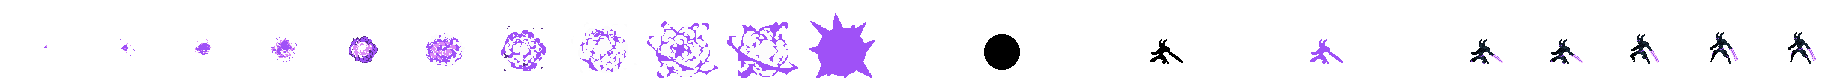
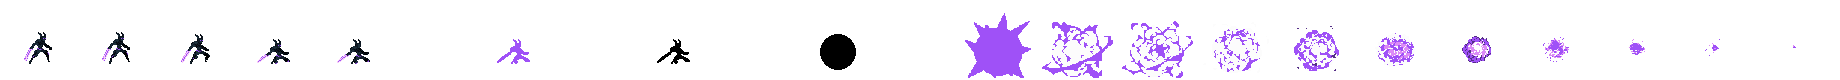
death animation and text files

Changed region(s): [[0.0, 0.25, 0.4957, 0.975], [0.5266, 0.25, 0.8984, 0.975], [0.9293, 0.45, 0.9913, 0.75]]

diff --git a/Fighting-Game/script.js b/Fighting-Game/script.js
@@ -81,6 +81,11 @@ const player = new Fighter({
             framesMax: 6,
             image: new Image()
         },
+        death: {
+            imageSrc: './Graphic/character/Assassin/Death.png',
+            framesMax: 9,
+            image: new Image()
+        }
     },
     attackBox: {
         offset: {
@@ -142,6 +147,11 @@ const enemy = new Fighter({
             framesMax: 5,
             image: new Image()
         },
+        death: {
+            imageSrc: './Graphic/character/NightBorne/Death.png',
+            framesMax: 23,
+            image: new Image()
+        }
     },
     attackBox: {
         offset: {
@@ -178,6 +188,9 @@ decreaseTimer()
 
 
 window.addEventListener('keydown', (event) => {
+    if(!player.dead) {
+
+    
     switch (event.key) {
 //player
         case 'd':
@@ -196,23 +209,28 @@ window.addEventListener('keydown', (event) => {
         case ' ':
             player.attack()
             break
-//enemy
-        case 'ArrowRight':
-            keys.ArrowRight.pressed = true 
-            enemy.lastKey = 'ArrowRight'
-            break
-        case 'ArrowLeft':
-            keys.ArrowLeft.pressed = true 
-            enemy.lastKey = 'ArrowLeft'
-            break
-        case 'ArrowUp':
-            if((enemy.position.y + enemy.height) >= canvas.height) {
-                enemy.velocity.y = -13
-            }
-            break
-        case 'ArrowDown':
-            enemy.attack()
-            break
+        }
+    }
+    if(!enemy.dead) {
+        switch(event.key){
+        //enemy
+            case 'ArrowRight':
+                keys.ArrowRight.pressed = true 
+                enemy.lastKey = 'ArrowRight'
+                break
+            case 'ArrowLeft':
+                keys.ArrowLeft.pressed = true 
+                enemy.lastKey = 'ArrowLeft'
+                break
+            case 'ArrowUp':
+                if((enemy.position.y + enemy.height) >= canvas.height) {
+                    enemy.velocity.y = -13
+                }
+                break
+            case 'ArrowDown':
+                enemy.attack()
+                break
+        }
     }
 
 })

diff --git a/Fighting-Game/classi.js b/Fighting-Game/classi.js
@@ -83,6 +83,8 @@ class Fighter extends Sprite {
         this.framesElapsed = 0
         this.framesHold = 20
         this.sprites = sprites
+        this.dead = false
+
         for( const sprite in this.sprites){
             sprites [sprite].image = new Image()
             sprites [sprite].image.src = sprites [sprite].imageSrc
@@ -91,8 +93,9 @@ class Fighter extends Sprite {
 
     update () {
         this.draw()
-        this.animateFrames()
-        console.log(player.position.x, player.position.y, enemy.attackBox.position.x,enemy.attackBox.position.y)
+        if(!this.dead) this.animateFrames()
+        
+
 
 
         //attackbox
@@ -115,11 +118,22 @@ class Fighter extends Sprite {
     }
 
     hit() {
-        this.switchSprite('hit')
         this.health -= 20
+
+        if (this.health <= 0) {
+            this.switchSprite('death')
+        } else this.switchSprite('hit')
     }
     
     switchSprite(sprite) {
+
+        if (this.image === this.sprites.death.image) {
+            if(this.framesCurrent === this.sprites.death.framesMax -1 )
+            this.dead = true
+            return
+        }
+               
+
         if (
             this.image === this.sprites.attack1.image && 
             this.framesCurrent < this.sprites.attack1.framesMax -1) 
@@ -171,6 +185,13 @@ class Fighter extends Sprite {
                 if(this.image !== this.sprites.hit.image) {
                     this.image = this.sprites.hit.image
                     this.framesMax = this.sprites.hit.framesMax
+                    this.framesCurrent = 0
+                }
+                break
+            case 'death':
+                if(this.image !== this.sprites.death.image) {
+                    this.image = this.sprites.death.image
+                    this.framesMax = this.sprites.death.framesMax
                     this.framesCurrent = 0
                 }
                 break

diff --git a/Fighting-Game/index.html b/Fighting-Game/index.html
@@ -1,9 +1,13 @@
 <html>
 <head>
+    <link rel="preconnect" href="https://fonts.googleapis.com"> 
+    <link rel="preconnect" href="https://fonts.gstatic.com" crossorigin> 
+    <link href="https://fonts.googleapis.com/css2?family=Press+Start+2P&display=swap" rel="stylesheet">
     <link rel="stylesheet" href="style.css" type="text/css">
     <style>
         *{
            box-sizing: border-box;
+            font-family: 'Press Start 2P', cursive;
         }
     </style>
 </head>
@@ -11,7 +15,14 @@
     <div id="overlay">
         <div id="health_and_timer">
             <!-- player health-->
-            <div style="position: relative; height: 30px; width: 100%; display: flex; justify-content: flex-end">
+            <div style="position: relative; 
+            width: 100%; 
+            display: flex; 
+            justify-content: 
+            flex-end; 
+            border-top: 4px solid white;
+            border-left: 4px solid white;
+            border-bottom: 4px solid white;">
                 <div id="player_health"></div>
                 <div id="player_health_decreasing"></div>
             </div>
@@ -20,7 +31,11 @@
                 60
             </div>
             <!-- enemy health-->
-            <div style="position: relative; height: 30px; width: 100%">
+            <div style="position: relative; 
+            width: 100%;
+            border-top: 4px solid white;
+            border-right: 4px solid white;
+            border-bottom: 4px solid white;">
                 <div id="enemy_health"></div>
                 <div id="enemy_health_decreasing"></div>
             </div>

diff --git a/Fighting-Game/style.css b/Fighting-Game/style.css
@@ -1,3 +1,5 @@
+
+
 #overlay {
     position: relative;
     display: inline-block;
@@ -12,6 +14,7 @@
 }
 
 #player_health {
+    position: relative;
     height: 30px;
     width: 100%;
     background-color: red;
@@ -27,27 +30,29 @@
 }
 
 #timer {
-    height: 100px;
+    height: 50px;
     width: 100px;
     flex-shrink: 0;
-    background-color: yellow;
+    background-color: rgb(95, 95, 95);
     display:flex;
     align-items: center;
     justify-content: center;
+    border: 4px solid white;
+    color: white;
 }
 
 #enemy_health {
     height: 30px;
-    background-color: red;
+    background-color: rgb(7, 7, 41);
 }
 #enemy_health_decreasing {
     position: absolute; 
-    background-color: green; 
+    background-color: blueviolet; 
     top: 0; 
     bottom: 0; 
     right: 0; 
     left: 0;
-}
+} 
 
 #Tie{
     position: absolute;
